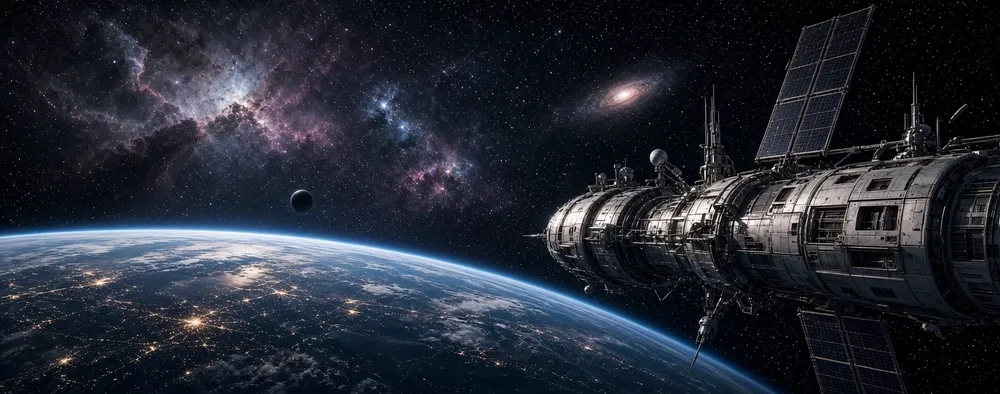
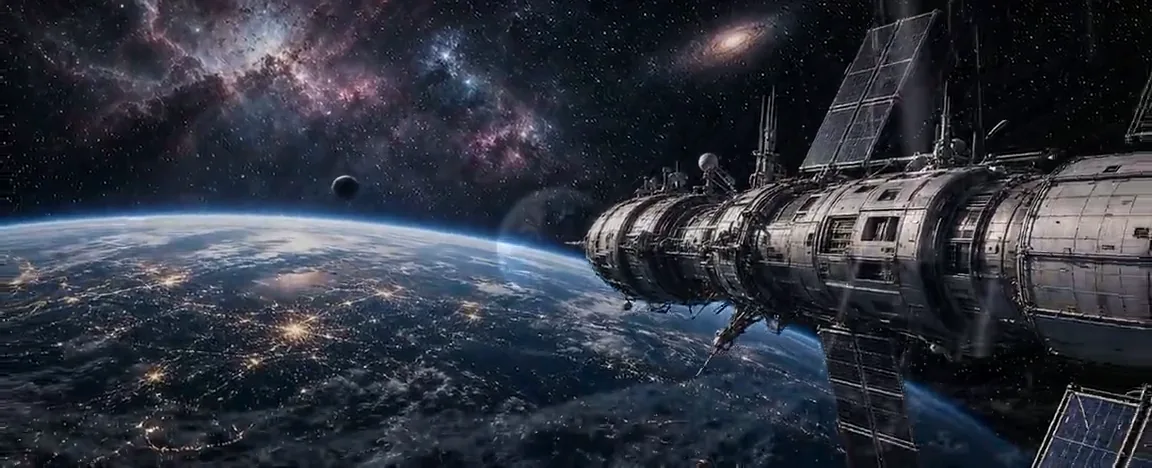
Add focal point cropping and seamless dissolves for background stills
- Preserve off-center subjects on narrow screens using per-still object positions
- Group stills under shared opacity and filter styling so crossfades avoid brightness dips
- Decode images before rendering and hold each frame for three seconds before dissolving
- Update site tagline and add unit and end-to-end test coverage for the still cycle

diff --git a/tests/e2e/site.spec.ts b/tests/e2e/site.spec.ts
@@ -3,6 +3,8 @@ import { expect, test } from '@playwright/test';
 import {
   BACKGROUND_HANDOVER_SECONDS,
   BACKGROUND_PLAYBACK_RATE,
+  BACKGROUND_STILL_FADE_SECONDS,
+  BACKGROUND_STILL_HOLD_SECONDS,
 } from '../../logic/media/background_video';
 import {
   BASE_PATH_FIXTURE,
@@ -244,6 +246,88 @@ test('RMET-E2E-007 plays the background video on a loop, silent until asked', as
       await page.waitForLoadState('domcontentloaded');
       await expect(page.locator('.page-media-frame')).toHaveCount(0);
       await expect(page.locator('[data-testid="sound-toggle"]')).toHaveCount(0);
+    }
+  );
+});
+
+test('RMET-E2E-009 holds each still alone for three seconds, then dissolves in the next', async ({
+  page,
+}) => {
+  await page.setViewportSize({ width: 390, height: 844 });
+  await withBuiltRuntime(
+    { contentDir: FIXTURE_CONTENT_DIR, assetsDir: FIXTURE_ASSETS_DIR },
+    async ({ baseURL }) => {
+      await page.goto(`${baseURL}/`);
+      const stills = page.locator('.page-media-still');
+      await expect(stills).toHaveCount(2);
+
+      // the stills carry the video's treatment, applied once around all of them
+      expect(
+        await page.locator('.page-media-stills').evaluate((node) => {
+          const style = getComputedStyle(node);
+          return { opacity: style.opacity, filter: style.filter };
+        })
+      ).toEqual({ opacity: '0.4', filter: 'grayscale(0.3) contrast(1.05)' });
+      await expect(stills.first()).toHaveCSS(
+        'transition-duration',
+        `${BACKGROUND_STILL_FADE_SECONDS}s`
+      );
+
+      // a portrait crop is centred on each still's subject: the station
+      // crosses the right of its frame, the lunar lander stands at the right
+      await expect(stills.first()).toHaveCSS('object-position', '80% 50%');
+      await expect(stills.nth(1)).toHaveCSS('object-position', '94% 50%');
+
+      // the players are not displayed on this screen at all, so neither the
+      // poster nor a frame can blend into a still
+      const frames = page.locator('.page-media-frame');
+      await expect(frames).toHaveCount(2);
+      for (const frame of await frames.all()) {
+        await expect(frame).toBeHidden();
+      }
+
+      const state = () =>
+        page.locator('.page-media-stills').evaluate((root) =>
+          Array.from(root.querySelectorAll('img')).map((image) => ({
+            active: image.classList.contains('is-active'),
+            leaving: image.classList.contains('is-leaving'),
+            opacity: getComputedStyle(image).opacity,
+          }))
+        );
+      const alone = (index: number) =>
+        [0, 1].map((other) => ({
+          active: other === index,
+          leaving: false,
+          opacity: other === index ? '1' : '0',
+        }));
+      const polling = { intervals: [100], timeout: 10000 };
+
+      // the first still fades in and then stands alone
+      await expect.poll(state, polling).toEqual(alone(0));
+      const heldAt = Date.now();
+
+      // nothing else shows during the hold; a timer never fires early, so a
+      // check well before the hold ends proves the still was never blended
+      await page.waitForTimeout(BACKGROUND_STILL_HOLD_SECONDS * 1000 - 1000);
+      expect(await state()).toEqual(alone(0));
+
+      // the dissolve: the next still fades in on top while the outgoing one
+      // stays whole underneath, so the picture never dips
+      await expect.poll(state, polling).toMatchObject([
+        { active: false, leaving: true, opacity: '1' },
+        { active: true, leaving: false },
+      ]);
+      expect(Date.now() - heldAt).toBeGreaterThanOrEqual(
+        BACKGROUND_STILL_HOLD_SECONDS * 1000 - 100
+      );
+
+      // then the second still stands alone in turn
+      await expect.poll(state, polling).toMatchObject([
+        { active: false, leaving: false },
+        { active: true, leaving: false, opacity: '1' },
+      ]);
+
+      await captureRoute(page, 'rmet-e2e-009', '/stills');
     }
   );
 });

diff --git a/tests/unit/background-video.test.ts b/tests/unit/background-video.test.ts
@@ -3,7 +3,10 @@ import { describe, expect, test } from 'vitest';
 import {
   BACKGROUND_HANDOVER_SECONDS,
   BACKGROUND_JOIN_CROSSFADE_SECONDS,
-  BACKGROUND_STILL_SECONDS,
+  BACKGROUND_STILL_DEFAULT_FOCUS,
+  BACKGROUND_STILL_FADE_SECONDS,
+  BACKGROUND_STILL_FOCUS,
+  BACKGROUND_STILL_HOLD_SECONDS,
   BACKGROUND_WIDE_VIEWPORT,
   BACKGROUND_PLAYBACK_RATE,
   BACKGROUND_POSTER_FILE,
@@ -130,7 +133,7 @@ describe('stills for narrow screens', () => {
         'background-still-2.webp',
         'background-still-1.webp',
         'background-still-3.webp',
-      ]).stills
+      ]).stills.map((still) => still.src)
     ).toEqual([
       '/video/background-still-1.webp',
       '/video/background-still-2.webp',
@@ -140,8 +143,10 @@ describe('stills for narrow screens', () => {
 
   test('RMET-UNIT-194 keeps a gap in the numbering from breaking the sequence', () => {
     expect(
-      backgroundMedia(['background-still-1.webp', 'background-still-3.webp'])
-        .stills
+      backgroundMedia([
+        'background-still-1.webp',
+        'background-still-3.webp',
+      ]).stills.map((still) => still.src)
     ).toEqual([
       '/video/background-still-1.webp',
       '/video/background-still-3.webp',
@@ -168,8 +173,42 @@ describe('stills for narrow screens', () => {
     expect(nextStillIndex(3, -1)).toBe(0);
   });
 
-  test('RMET-UNIT-199 keeps the video for wide viewports only, and holds each still briefly', () => {
+  test('RMET-UNIT-199 keeps the video for wide viewports only', () => {
     expect(BACKGROUND_WIDE_VIEWPORT).toBe('(min-width: 768px)');
-    expect(BACKGROUND_STILL_SECONDS).toBeGreaterThan(1);
+  });
+
+  test('RMET-UNIT-201 crops a portrait screen around the subject of each still', () => {
+    // the lunar lander stands at the right of its frame; a centred crop
+    // would show Earth and the ground and lose the lander
+    expect(BACKGROUND_STILL_FOCUS['background-still-2.webp']).toBe('94% 50%');
+    // Earth hangs behind the dish at the left of the lunar base frame
+    expect(BACKGROUND_STILL_FOCUS['background-still-4.webp']).toBe('29% 50%');
+    // the satellites frame stays centred
+    expect(BACKGROUND_STILL_FOCUS['background-still-3.webp']).toBeUndefined();
+    expect(backgroundMedia(['background-still-3.webp']).stills[0].focus).toBe(
+      BACKGROUND_STILL_DEFAULT_FOCUS
+    );
+    const stills = backgroundMedia([
+      'background-still-1.webp',
+      'background-still-2.webp',
+    ]).stills;
+    // the space station crosses the right of its frame
+    expect(stills[0]).toEqual({
+      src: '/video/background-still-1.webp',
+      focus: '80% 50%',
+    });
+    expect(stills[1]).toEqual({
+      src: '/video/background-still-2.webp',
+      focus: '94% 50%',
+    });
+    expect(BACKGROUND_STILL_DEFAULT_FOCUS).toBe('50% 50%');
+  });
+
+  test('RMET-UNIT-200 holds each still alone for three seconds, then dissolves for no longer than that', () => {
+    expect(BACKGROUND_STILL_HOLD_SECONDS).toBe(3);
+    expect(BACKGROUND_STILL_FADE_SECONDS).toBeGreaterThan(0);
+    expect(BACKGROUND_STILL_FADE_SECONDS).toBeLessThanOrEqual(
+      BACKGROUND_STILL_HOLD_SECONDS
+    );
   });
 });

diff --git a/logic/media/background_video.ts b/logic/media/background_video.ts
@@ -1,4 +1,8 @@
-import type { BackgroundMedia, BackgroundVideoSource } from '../../types/media';
+import type {
+  BackgroundMedia,
+  BackgroundStill,
+  BackgroundVideoSource,
+} from '../../types/media';
 
 export const BACKGROUND_VIDEO_DIRECTORY = '/video';
 export const BACKGROUND_VIDEO_BASENAME = 'background';
@@ -57,10 +61,43 @@ export function backgroundVideoCandidates(): readonly BackgroundVideoSource[] {
  */
 export const BACKGROUND_WIDE_VIEWPORT = '(min-width: 768px)';
 
-/** Seconds each still holds before the next one fades in. */
-export const BACKGROUND_STILL_SECONDS = 5;
+/**
+ * Seconds each still stands alone on a narrow screen before the next one
+ * dissolves in. Nothing else is blended with it during the hold.
+ */
+export const BACKGROUND_STILL_HOLD_SECONDS = 3;
+
+/**
+ * Seconds the next still takes to dissolve in over the current one. The
+ * outgoing still stays whole underneath for the whole dissolve, so the
+ * picture never dips; the script applies this as the stills' transition.
+ */
+export const BACKGROUND_STILL_FADE_SECONDS = 1;
 
 const MAX_STILLS = 9;
+
+/** Where a crop centres when a still names no focal point of its own. */
+export const BACKGROUND_STILL_DEFAULT_FOCUS = '50% 50%';
+
+/**
+ * The `object-position` a portrait screen crops each still around, by file.
+ * A phone shows only a slice of these wide frames, so a subject that stands
+ * off centre names where the slice goes: the space station crosses the right
+ * of its frame, the lunar lander stands at the right of its own, and Earth
+ * hangs behind the dish at the left of the lunar base.
+ */
+export const BACKGROUND_STILL_FOCUS: Readonly<Record<string, string>> = {
+  'background-still-1.webp': '80% 50%',
+  'background-still-2.webp': '94% 50%',
+  'background-still-4.webp': '29% 50%',
+};
+
+function still(file: string): BackgroundStill {
+  return {
+    src: mediaPath(file),
+    focus: BACKGROUND_STILL_FOCUS[file] ?? BACKGROUND_STILL_DEFAULT_FOCUS,
+  };
+}
 
 export function backgroundStillCandidates(): readonly string[] {
   return Array.from(
@@ -83,7 +120,7 @@ export function backgroundMedia(
   );
   const stills = backgroundStillCandidates()
     .filter((file) => present.has(file))
-    .map(mediaPath);
+    .map(still);
   const poster = present.has(BACKGROUND_POSTER_FILE)
     ? mediaPath(BACKGROUND_POSTER_FILE)
     : undefined;

diff --git a/state/adapters/inbound/styles/global.css b/state/adapters/inbound/styles/global.css
@@ -84,6 +84,9 @@
 
 @layer components {
   .page-media {
+    /* The one treatment the backdrop wears, whether it is the video or a still. */
+    --media-opacity: 0.4;
+    --media-filter: grayscale(0.3) contrast(1.05);
     position: fixed;
     inset: 0;
     z-index: -2;
@@ -99,23 +102,54 @@
     height: 100%;
     object-fit: cover;
     opacity: 0;
-    filter: grayscale(0.3) contrast(1.05);
+  }
+
+  .page-media-frame {
+    filter: var(--media-filter);
     /* Matches BACKGROUND_HANDOVER_SECONDS: this fade is the loop transition. */
     transition: opacity 1s linear;
   }
 
-  .page-media-still {
-    transition: opacity 1.2s linear;
+  .page-media-frame.is-active {
+    opacity: var(--media-opacity);
   }
 
-  .page-media-frame.is-active,
+  /*
+   * The stills wear the treatment as one group, so a dissolve between two of
+   * them mixes whole images and never dips towards the page background.
+   */
+  .page-media-stills {
+    position: absolute;
+    inset: 0;
+    opacity: var(--media-opacity);
+    filter: var(--media-filter);
+  }
+
+  .page-media-still {
+    /* The duration is BACKGROUND_STILL_FADE_SECONDS, set by the script. */
+    transition: opacity linear;
+  }
+
   .page-media-still.is-active {
-    opacity: 0.4;
+    opacity: 1;
+    z-index: 1;
+  }
+
+  /* The outgoing still stays whole beneath the one dissolving in over it. */
+  .page-media-still.is-leaving {
+    opacity: 1;
   }
 
   /* The video only ever loads above this width; below it the stills stand in. */
   @media (min-width: 768px) {
-    .page-media-still {
+    .page-media-stills {
+      display: none;
+    }
+  }
+
+  /* Below it the players never show, so the poster cannot blend into a still. */
+  @media not all and (min-width: 768px) {
+    .page-media-frame {
       display: none;
     }
   }
@@ -144,9 +178,8 @@
   }
 
   @media (prefers-reduced-motion: reduce) {
-    .page-media-frame.is-active,
-    .page-media-still.is-active {
-      opacity: 0.25;
+    .page-media {
+      --media-opacity: 0.25;
     }
   }
 

diff --git a/logic/site/site_config.ts b/logic/site/site_config.ts
@@ -4,7 +4,7 @@ export const SITE: SiteConfig = {
   name: 'Pedro Henrique Rocha Moy',
   publicationTitle: 'Rocha Moy Engineering & Technology Blog',
   tagline:
-    'Artificial Intelligence, Machine Learning, Data Science, Data & Software Engineering',
+    'Engineering & Technology, Artificial Intelligence, Machine Learning, Data Science, Data & Software Engineering',
   description:
     'Writing on engineering, artificial intelligence, and the systems built with it.',
   author: 'Pedro Henrique Rocha Moy',

diff --git a/types/media.ts b/types/media.ts
@@ -4,8 +4,14 @@ export interface BackgroundVideoSource {
   readonly type: string;
 }
 
+/** One still for narrow screens: its address and the point a crop centres on. */
+export interface BackgroundStill {
+  readonly src: string;
+  readonly focus: string;
+}
+
 export interface BackgroundMedia {
   readonly sources: readonly BackgroundVideoSource[];
-  readonly stills: readonly string[];
+  readonly stills: readonly BackgroundStill[];
   readonly poster?: string;
 }

diff --git a/tests/unit/site-config.test.ts b/tests/unit/site-config.test.ts
@@ -8,6 +8,9 @@ describe('site configuration', () => {
     expect(SITE.publicationTitle).toBe(
       'Rocha Moy Engineering & Technology Blog'
     );
+    expect(SITE.tagline).toBe(
+      'Engineering & Technology, Artificial Intelligence, Machine Learning, Data Science, Data & Software Engineering'
+    );
     expect(SITE.author).toBe('Pedro Henrique Rocha Moy');
     expect(SITE.locale).toBe('en');
   });

diff --git a/docs/md/DEVELOPMENT.md b/docs/md/DEVELOPMENT.md
@@ -50,13 +50,14 @@ The landing page, and only the landing page, carries a fixed video backdrop. `Ba
 - The files live in `state/adapters/inbound/public/video/`: `background.webm` (VP9 video, Opus audio) and `background.mp4` (H.264 video, Advanced Audio Coding audio) are the two encodings, `background-poster.jpg` is the frame shown before playback, and `background-still-1.webp` through `background-still-9.webp` are the still frames. Whatever is present is used and nothing is required; with no files at all the backdrop is not rendered.
 - The source clips are joined ahead of time with one-second crossfades. The file is _not_ folded end-over-start: the loop is the last join and the two players perform it, crossfading the end of the final clip into the start of the first over `BACKGROUND_JOIN_CROSSFADE_SECONDS`. Baking a fold into the file as well makes the file and the players dissolve at the same instant, over mismatched positions, and the picture visibly dips. The current backdrop is four clips, 43 seconds, encoded 1152 pixels wide at about 300 kilobits per second, which holds a desktop visit near two megabytes.
 - Nothing is fetched declaratively. The markup carries `preload="none"`, no `autoplay`, and `data-src` rather than `src` on both the stills and the video sources. The script attaches the addresses and starts playback.
-- Above `BACKGROUND_WIDE_VIEWPORT` (`(min-width: 768px)`) the script attaches the video. Below it the video is never touched, so a narrow screen fetches no video bytes at all; it cycles the stills every `BACKGROUND_STILL_SECONDS` instead and the sound control stays hidden.
+- Above `BACKGROUND_WIDE_VIEWPORT` (`(min-width: 768px)`) the script attaches the video. Below it the video is never touched and the two players are not displayed at all, so a narrow screen fetches no video bytes and the poster never blends into a still; it shows the stills instead and the sound control stays hidden. Each still is decoded before it shows, fades in over `BACKGROUND_STILL_FADE_SECONDS`, stands alone for `BACKGROUND_STILL_HOLD_SECONDS`, and then the next one dissolves in on top of it while it stays whole underneath. The stills sit in `.page-media-stills`, which wears the same `--media-opacity` and `--media-filter` as the video, so a dissolve mixes two whole images and never dips towards the page background.
+- A portrait screen shows only a slice of each wide still. `BACKGROUND_STILL_FOCUS` names, per still file, the `object-position` that slice is centred on, so a subject standing off centre stays in view; a still not listed is centred (`BACKGROUND_STILL_DEFAULT_FOCUS`). The space station still (the clip's last frame before the crossfade, at 5.25 seconds) is `80% 50%` for the station body; the lunar lander still is `94% 50%` because the lander stands at the right of its frame; the lunar base still (the clip's close-up at 38.5 seconds) is `29% 50%` so Earth shows behind the dish.
 - Two `video` elements alternate. `shouldHandOver` decides when the standby player takes over, `BACKGROUND_HANDOVER_SECONDS` before the end, so the loop never seeks back to zero and never stalls on the seek. That window is also the loop's crossfade, so it matches `BACKGROUND_JOIN_CROSSFADE_SECONDS` and the `opacity` transition on `.page-media-frame`; change one and change all three. `BACKGROUND_PLAYBACK_RATE` sets the speed.
 - Sound ships off. The control in the corner unmutes, and it is revealed only once the video has started.
 - `prefers-reduced-motion` holds the muted backdrop on a single frame and stops the stills from cycling.
 - `PUBLIC_ASSETS_DIR` overrides the static asset directory at build time. The browser suites use it to build from `tests/fixtures/public`, so no suite ever loads the real media.
 - The fixture clip `tests/fixtures/public/video/background.webm` is thirty seconds of silent VP9 and Opus made with `ffmpeg` from its `color` and `anullsrc` sources. It must stay far longer than `BACKGROUND_HANDOVER_SECONDS`: `RMET-E2E-007` drives the loop point itself and asserts on the standby player before the clip's own handover, and it fails on a clip shorter than ten handover windows.
-- `RMET-E2E-007` covers a wide screen: two players, muted, not looping, fixed, playing, at the configured rate, with a sound control that unmutes. `RMET-E2E-008` covers a 390 by 844 screen: an active still, no `.webm` or `.mp4` request, an empty `currentSrc`, and a hidden sound control.
+- `RMET-E2E-007` covers a wide screen: two players, muted, not looping, fixed, playing, at the configured rate, with a sound control that unmutes. `RMET-E2E-008` covers a 390 by 844 screen: an active still, no `.webm` or `.mp4` request, an empty `currentSrc`, and a hidden sound control. `RMET-E2E-009` covers the still cycle on that screen: the treatment on the group, one still alone through the hold, the dissolve with the outgoing still whole underneath, then the next still alone.
 
 ## Environment
 

diff --git a/README.md b/README.md
@@ -66,15 +66,17 @@ one without them renders as a plain piece.
 
 The landing page plays a video behind the content, fixed while you scroll and
 silent until you turn the sound on with the control in the corner. Screens
-narrower than 768 pixels never fetch the video; they cycle through still frames
-instead, with no sound control at all.
+narrower than 768 pixels never fetch the video; they show the still frames
+instead, each on its own for three seconds before the next dissolves in, with
+no sound control at all.
 
 The files go in `state/adapters/inbound/public/video/`:
 
 - `background.webm` and `background.mp4` — the same clip in both encodings
 - `background-poster.jpg` — the frame shown before playback starts
 - `background-still-1.webp` … `background-still-9.webp` — the frames a narrow
-  screen cycles through
+  screen cycles through, each cropped around the point `BACKGROUND_STILL_FOCUS`
+  in `logic/media/background_video.ts` names for its file
 
 Any of them may be missing, and with none of them present the backdrop simply
 does not render. Join and encode the clips before they land here: the file is
